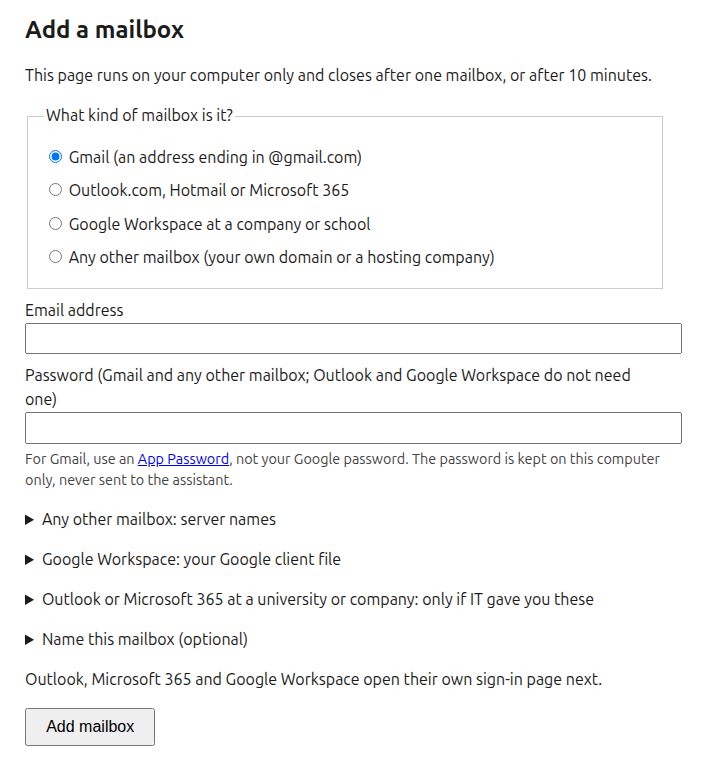
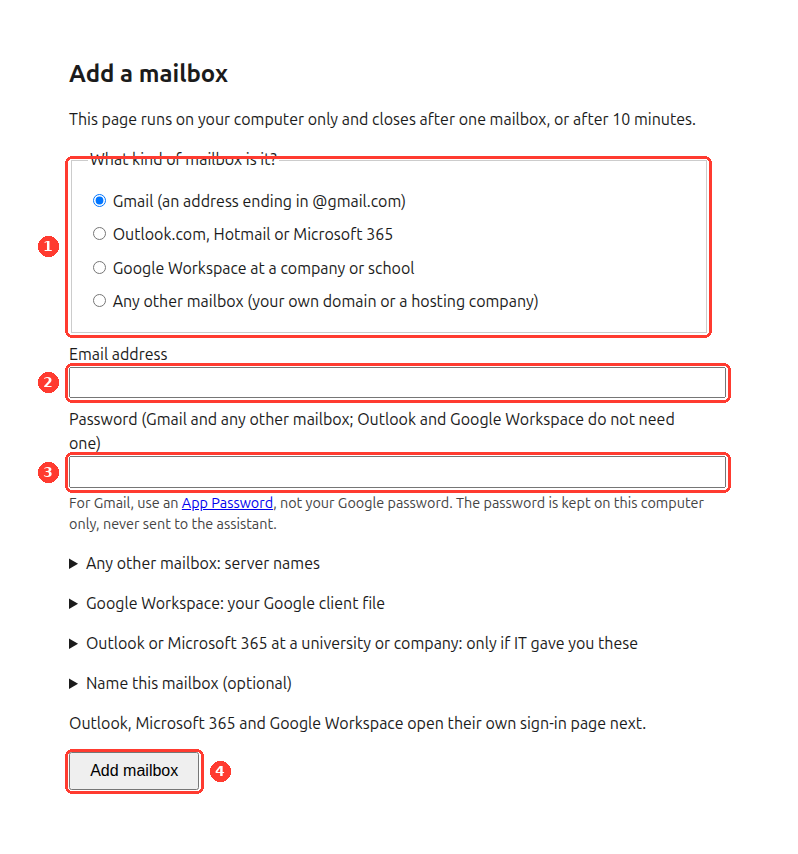
Start here: ChatGPT's add-mailbox steps back in its tab, boxes on the step 2 picture
Moving them to step 2 (#167) made a ChatGPT reader leave the tab mid-way. Each
ChatGPT tab now runs install, setup page and form in one flow; step 2 is for the
other apps. The step 2 picture gets numbered boxes for its four actions.

Fixes #168

Changed region(s): [[0.031, 0.03, 0.9296, 0.9608]]

diff --git a/docs/start.md b/docs/start.md
@@ -68,7 +68,50 @@ Three steps, for any AI app. No terminal.
 
         ![email-tool highlighted in the Installed list](assets/screens/chatgpt-windows/installed.png)
 
-    Next, [add your mailbox](#2-add-your-mailbox).
+    **Open the setup page**
+
+    === "Codex"
+
+        1. Select the Home icon. In the message box, type **add my mailbox** and press Enter.
+
+            ![add my mailbox typed in the Codex message box](assets/screens/chatgpt-windows/codex-type.png)
+
+        2. In the reply, select the link to the setup page. The link lasts 10 minutes.
+
+            ![The reply from ChatGPT with the mailbox setup link highlighted](assets/screens/chatgpt-windows/codex-link.png)
+
+        3. The **Add a mailbox** page opens in ChatGPT.
+
+            ![The Add a mailbox page open in a tab inside ChatGPT](assets/screens/chatgpt-windows/codex-page.png)
+
+    === "Work"
+
+        1. Select the Home icon, and then select **Work**. In the message box, type
+           **add my mailbox** and press Enter.
+
+            ![add my mailbox typed in the Work message box, with the Work tab highlighted](assets/screens/chatgpt-windows/work-type.png)
+
+        2. In the reply, select the link to the setup page. The link lasts 10 minutes.
+
+            ![The reply from ChatGPT with the mailbox setup link highlighted](assets/screens/chatgpt-windows/work-link.png)
+
+        3. The **Add a mailbox** page opens in ChatGPT.
+
+            ![The Add a mailbox page open in a tab inside ChatGPT](assets/screens/chatgpt-windows/work-page.png)
+
+    **Fill in the page**
+
+    This example is for a mailbox at your own domain or a hosting company. For Gmail, Outlook and
+    other kinds, see [Add your mailbox](#2-add-your-mailbox).
+
+    1. Select **Any other mailbox**.
+    2. Type your email address.
+    3. Type your password. Type it only on this page, never in the chat.
+    4. Select **Any other mailbox: server names**, and type your provider's **IMAP server**.
+    5. Type your provider's **SMTP server**.
+    6. Select **Add mailbox**. When the page says **Mailbox added**, go back to ChatGPT.
+
+    ![The Add a mailbox form with example values, and each box to fill in highlighted](assets/screens/chatgpt-windows/form-example.png)
 
 
 === "ChatGPT desktop on macOS"
@@ -127,7 +170,51 @@ Three steps, for any AI app. No terminal.
 
         ![email-tool highlighted in the Installed list](assets/screens/chatgpt-mac/installed.png)
 
-    Next, [add your mailbox](#2-add-your-mailbox).
+    **Open the setup page**
+
+    === "Codex"
+
+        1. Select the Home icon. In the message box, type **add my mailbox** and press Enter.
+
+            ![add my mailbox typed in the Codex message box](assets/screens/chatgpt-mac/codex-type.png)
+
+        2. In the reply, select the link to the setup page. The link lasts 10 minutes.
+
+            ![The reply from ChatGPT with the mailbox setup link highlighted](assets/screens/chatgpt-mac/codex-link.png)
+
+        3. The **Add a mailbox** page opens in ChatGPT.
+
+            ![The Add a mailbox page open in a tab inside ChatGPT](assets/screens/chatgpt-mac/codex-page.png)
+
+    === "Work"
+
+        1. Select the Home icon, and then select **Work**. In the message box, type
+           **add my mailbox** and press Enter.
+
+            ![add my mailbox typed in the Work message box, with the Work tab highlighted](assets/screens/chatgpt-mac/work-type.png)
+
+
+        2. In the reply, select the link to the setup page. The link lasts 10 minutes.
+
+            ![The reply from ChatGPT with the mailbox setup link highlighted](assets/screens/chatgpt-mac/work-link.png)
+
+        3. The **Add a mailbox** page opens in ChatGPT.
+
+            ![The Add a mailbox page open in a tab inside ChatGPT](assets/screens/chatgpt-mac/work-page.png)
+
+    **Fill in the page**
+
+    This example is for a mailbox at your own domain or a hosting company. For Gmail, Outlook and
+    other kinds, see [Add your mailbox](#2-add-your-mailbox).
+
+    1. Select **Any other mailbox**.
+    2. Type your email address.
+    3. Type your password. Type it only on this page, never in the chat.
+    4. Select **Any other mailbox: server names**, and type your provider's **IMAP server**.
+    5. Type your provider's **SMTP server**.
+    6. Select **Add mailbox**. When the page says **Mailbox added**, go back to ChatGPT.
+
+    ![The Add a mailbox form with example values, and each box to fill in highlighted](assets/screens/chatgpt-mac/form-example.png)
 
 
 === "ChatGPT desktop on Linux"
@@ -189,164 +276,6 @@ Three steps, for any AI app. No terminal.
 
         ![email-tool highlighted in the Installed list](assets/screens/chatgpt-linux/installed.png)
 
-    Next, [add your mailbox](#2-add-your-mailbox).
-
-
-=== "Claude Code"
-
-    1. Install uv once with the installer for your computer (see the ChatGPT desktop on Windows or macOS tab), or
-       [by hand](install.md#install-uv-by-hand).
-    2. In a terminal, add the marketplace and install the plugin:
-
-        ```bash
-        claude plugin marketplace add skhan61/email-tool
-        claude plugin install email-tool@email-tool
-        ```
-
-        ![Claude Code adds the email-tool marketplace](assets/screens/claude-marketplace.svg)
-
-        ![Claude Code installs the email-tool plugin](assets/screens/claude-install.svg)
-
-        Or type the same inside Claude Code: `/plugin marketplace add skhan61/email-tool`,
-        then `/plugin install email-tool@email-tool`.
-    3. Close Claude Code and open it again.
-
-=== "Another app"
-
-    Any app that supports the Model Context Protocol (MCP) can run email-tool.
-    See [Advanced setup](install.md#connect-through-a-configuration-file-or-command).
-
-## 2. Add your mailbox
-
-In your app, type:
-
-> add my mailbox
-
-A page opens in your browser. It runs on your computer only. If your app shows a link
-instead, open the link.
-
-![The Add a mailbox page: choose the kind of mailbox, type the email address and, for Gmail, the password](assets/screens/setup-page.png){ width="560" }
-
-1. Choose your kind of mailbox.
-2. Type your email address.
-3. Then, depending on the kind:
-    - **Gmail:** type an App Password, not your Google password.
-      [How to get an App Password](mailboxes.md#gmail).
-    - **Outlook, Hotmail or Microsoft 365:** nothing more. After you select **Add mailbox**,
-      Microsoft's sign-in page opens. Sign in and select **Accept**.
-      At a university or company, Microsoft may say **Need admin approval**: your IT
-      department must approve email-tool first. Send them the application ID
-      `82731d7a-ac7f-4a5e-88d3-acce522f85ce`. If IT gives you its own app ID or a directory ID
-      instead, type them under **Outlook or Microsoft 365 at a university or company**.
-    - **Google Workspace at a company or school:** ask your IT department for the client file,
-      or [create one](mailboxes.md#google-workspace).
-    - **Any other mailbox:** type your password and, under **Any other mailbox: server names**,
-      the server names from your provider.
-4. Select **Add mailbox**. When the page says **Mailbox added**, go back to your app.
-
-Your password never passes through the AI assistant. To add another mailbox, ask again.
-
-### Step by step in ChatGPT desktop
-
-Numbers in a picture show the order of the actions in that step.
-
-=== "ChatGPT desktop on Windows"
-
-    **Open the setup page**
-
-    === "Codex"
-
-        1. Select the Home icon. In the message box, type **add my mailbox** and press Enter.
-
-            ![add my mailbox typed in the Codex message box](assets/screens/chatgpt-windows/codex-type.png)
-
-        2. In the reply, select the link to the setup page. The link lasts 10 minutes.
-
-            ![The reply from ChatGPT with the mailbox setup link highlighted](assets/screens/chatgpt-windows/codex-link.png)
-
-        3. The **Add a mailbox** page opens in ChatGPT.
-
-            ![The Add a mailbox page open in a tab inside ChatGPT](assets/screens/chatgpt-windows/codex-page.png)
-
-    === "Work"
-
-        1. Select the Home icon, and then select **Work**. In the message box, type
-           **add my mailbox** and press Enter.
-
-            ![add my mailbox typed in the Work message box, with the Work tab highlighted](assets/screens/chatgpt-windows/work-type.png)
-
-        2. In the reply, select the link to the setup page. The link lasts 10 minutes.
-
-            ![The reply from ChatGPT with the mailbox setup link highlighted](assets/screens/chatgpt-windows/work-link.png)
-
-        3. The **Add a mailbox** page opens in ChatGPT.
-
-            ![The Add a mailbox page open in a tab inside ChatGPT](assets/screens/chatgpt-windows/work-page.png)
-
-    **Fill in the page**
-
-    This example is for a mailbox at your own domain or a hosting company. For Gmail, Outlook and
-    other kinds, see the steps above.
-
-    1. Select **Any other mailbox**.
-    2. Type your email address.
-    3. Type your password. Type it only on this page, never in the chat.
-    4. Select **Any other mailbox: server names**, and type your provider's **IMAP server**.
-    5. Type your provider's **SMTP server**.
-    6. Select **Add mailbox**. When the page says **Mailbox added**, go back to ChatGPT.
-
-    ![The Add a mailbox form with example values, and each box to fill in highlighted](assets/screens/chatgpt-windows/form-example.png)
-
-=== "ChatGPT desktop on macOS"
-
-    **Open the setup page**
-
-    === "Codex"
-
-        1. Select the Home icon. In the message box, type **add my mailbox** and press Enter.
-
-            ![add my mailbox typed in the Codex message box](assets/screens/chatgpt-mac/codex-type.png)
-
-        2. In the reply, select the link to the setup page. The link lasts 10 minutes.
-
-            ![The reply from ChatGPT with the mailbox setup link highlighted](assets/screens/chatgpt-mac/codex-link.png)
-
-        3. The **Add a mailbox** page opens in ChatGPT.
-
-            ![The Add a mailbox page open in a tab inside ChatGPT](assets/screens/chatgpt-mac/codex-page.png)
-
-    === "Work"
-
-        1. Select the Home icon, and then select **Work**. In the message box, type
-           **add my mailbox** and press Enter.
-
-            ![add my mailbox typed in the Work message box, with the Work tab highlighted](assets/screens/chatgpt-mac/work-type.png)
-
-
-        2. In the reply, select the link to the setup page. The link lasts 10 minutes.
-
-            ![The reply from ChatGPT with the mailbox setup link highlighted](assets/screens/chatgpt-mac/work-link.png)
-
-        3. The **Add a mailbox** page opens in ChatGPT.
-
-            ![The Add a mailbox page open in a tab inside ChatGPT](assets/screens/chatgpt-mac/work-page.png)
-
-    **Fill in the page**
-
-    This example is for a mailbox at your own domain or a hosting company. For Gmail, Outlook and
-    other kinds, see the steps above.
-
-    1. Select **Any other mailbox**.
-    2. Type your email address.
-    3. Type your password. Type it only on this page, never in the chat.
-    4. Select **Any other mailbox: server names**, and type your provider's **IMAP server**.
-    5. Type your provider's **SMTP server**.
-    6. Select **Add mailbox**. When the page says **Mailbox added**, go back to ChatGPT.
-
-    ![The Add a mailbox form with example values, and each box to fill in highlighted](assets/screens/chatgpt-mac/form-example.png)
-
-=== "ChatGPT desktop on Linux"
-
     **Open the setup page**
 
     === "Codex"
@@ -381,7 +310,7 @@ Numbers in a picture show the order of the actions in that step.
     **Fill in the page**
 
     This example is for a mailbox at your own domain or a hosting company. For Gmail, Outlook and
-    other kinds, see the steps above.
+    other kinds, see [Add your mailbox](#2-add-your-mailbox).
 
     1. Select **Any other mailbox**.
     2. Type your email address.
@@ -391,6 +320,63 @@ Numbers in a picture show the order of the actions in that step.
     6. Select **Add mailbox**. When the page says **Mailbox added**, go back to ChatGPT.
 
     ![The Add a mailbox form with example values, and each box to fill in highlighted](assets/screens/chatgpt-linux/form-example.png)
+
+
+=== "Claude Code"
+
+    1. Install uv once with the installer for your computer (see the ChatGPT desktop on Windows or macOS tab), or
+       [by hand](install.md#install-uv-by-hand).
+    2. In a terminal, add the marketplace and install the plugin:
+
+        ```bash
+        claude plugin marketplace add skhan61/email-tool
+        claude plugin install email-tool@email-tool
+        ```
+
+        ![Claude Code adds the email-tool marketplace](assets/screens/claude-marketplace.svg)
+
+        ![Claude Code installs the email-tool plugin](assets/screens/claude-install.svg)
+
+        Or type the same inside Claude Code: `/plugin marketplace add skhan61/email-tool`,
+        then `/plugin install email-tool@email-tool`.
+    3. Close Claude Code and open it again.
+
+=== "Another app"
+
+    Any app that supports the Model Context Protocol (MCP) can run email-tool.
+    See [Advanced setup](install.md#connect-through-a-configuration-file-or-command).
+
+## 2. Add your mailbox
+
+In ChatGPT desktop, these steps are in its tab above, with pictures. In any other app:
+
+In your app, type:
+
+> add my mailbox
+
+A page opens in your browser. It runs on your computer only. If your app shows a link
+instead, open the link.
+
+![The Add a mailbox page, with the kind of mailbox, the email address, the password and the Add mailbox button highlighted](assets/screens/setup-page.png){ width="560" }
+
+1. Choose your kind of mailbox.
+2. Type your email address.
+3. Then, depending on the kind:
+    - **Gmail:** type an App Password, not your Google password.
+      [How to get an App Password](mailboxes.md#gmail).
+    - **Outlook, Hotmail or Microsoft 365:** nothing more. After you select **Add mailbox**,
+      Microsoft's sign-in page opens. Sign in and select **Accept**.
+      At a university or company, Microsoft may say **Need admin approval**: your IT
+      department must approve email-tool first. Send them the application ID
+      `82731d7a-ac7f-4a5e-88d3-acce522f85ce`. If IT gives you its own app ID or a directory ID
+      instead, type them under **Outlook or Microsoft 365 at a university or company**.
+    - **Google Workspace at a company or school:** ask your IT department for the client file,
+      or [create one](mailboxes.md#google-workspace).
+    - **Any other mailbox:** type your password and, under **Any other mailbox: server names**,
+      the server names from your provider.
+4. Select **Add mailbox**. When the page says **Mailbox added**, go back to your app.
+
+Your password never passes through the AI assistant. To add another mailbox, ask again.
 
 ## 3. Try it
 

diff --git a/CHANGELOG.md b/CHANGELOG.md
@@ -3,8 +3,8 @@
 ## Unreleased
 
 ### Fixed
-- Start here keeps installing in step 1 and adding a mailbox in step 2 for ChatGPT desktop too; the form
-  steps match the picture's numbers, and every Windows picture has its highlight (#166).
+- Start here: each ChatGPT desktop tab holds the whole flow, install then adding a mailbox; the form
+  steps match the picture's numbers, and every picture has its highlights (#166, #168).
 
 ## 5.7.0
 
